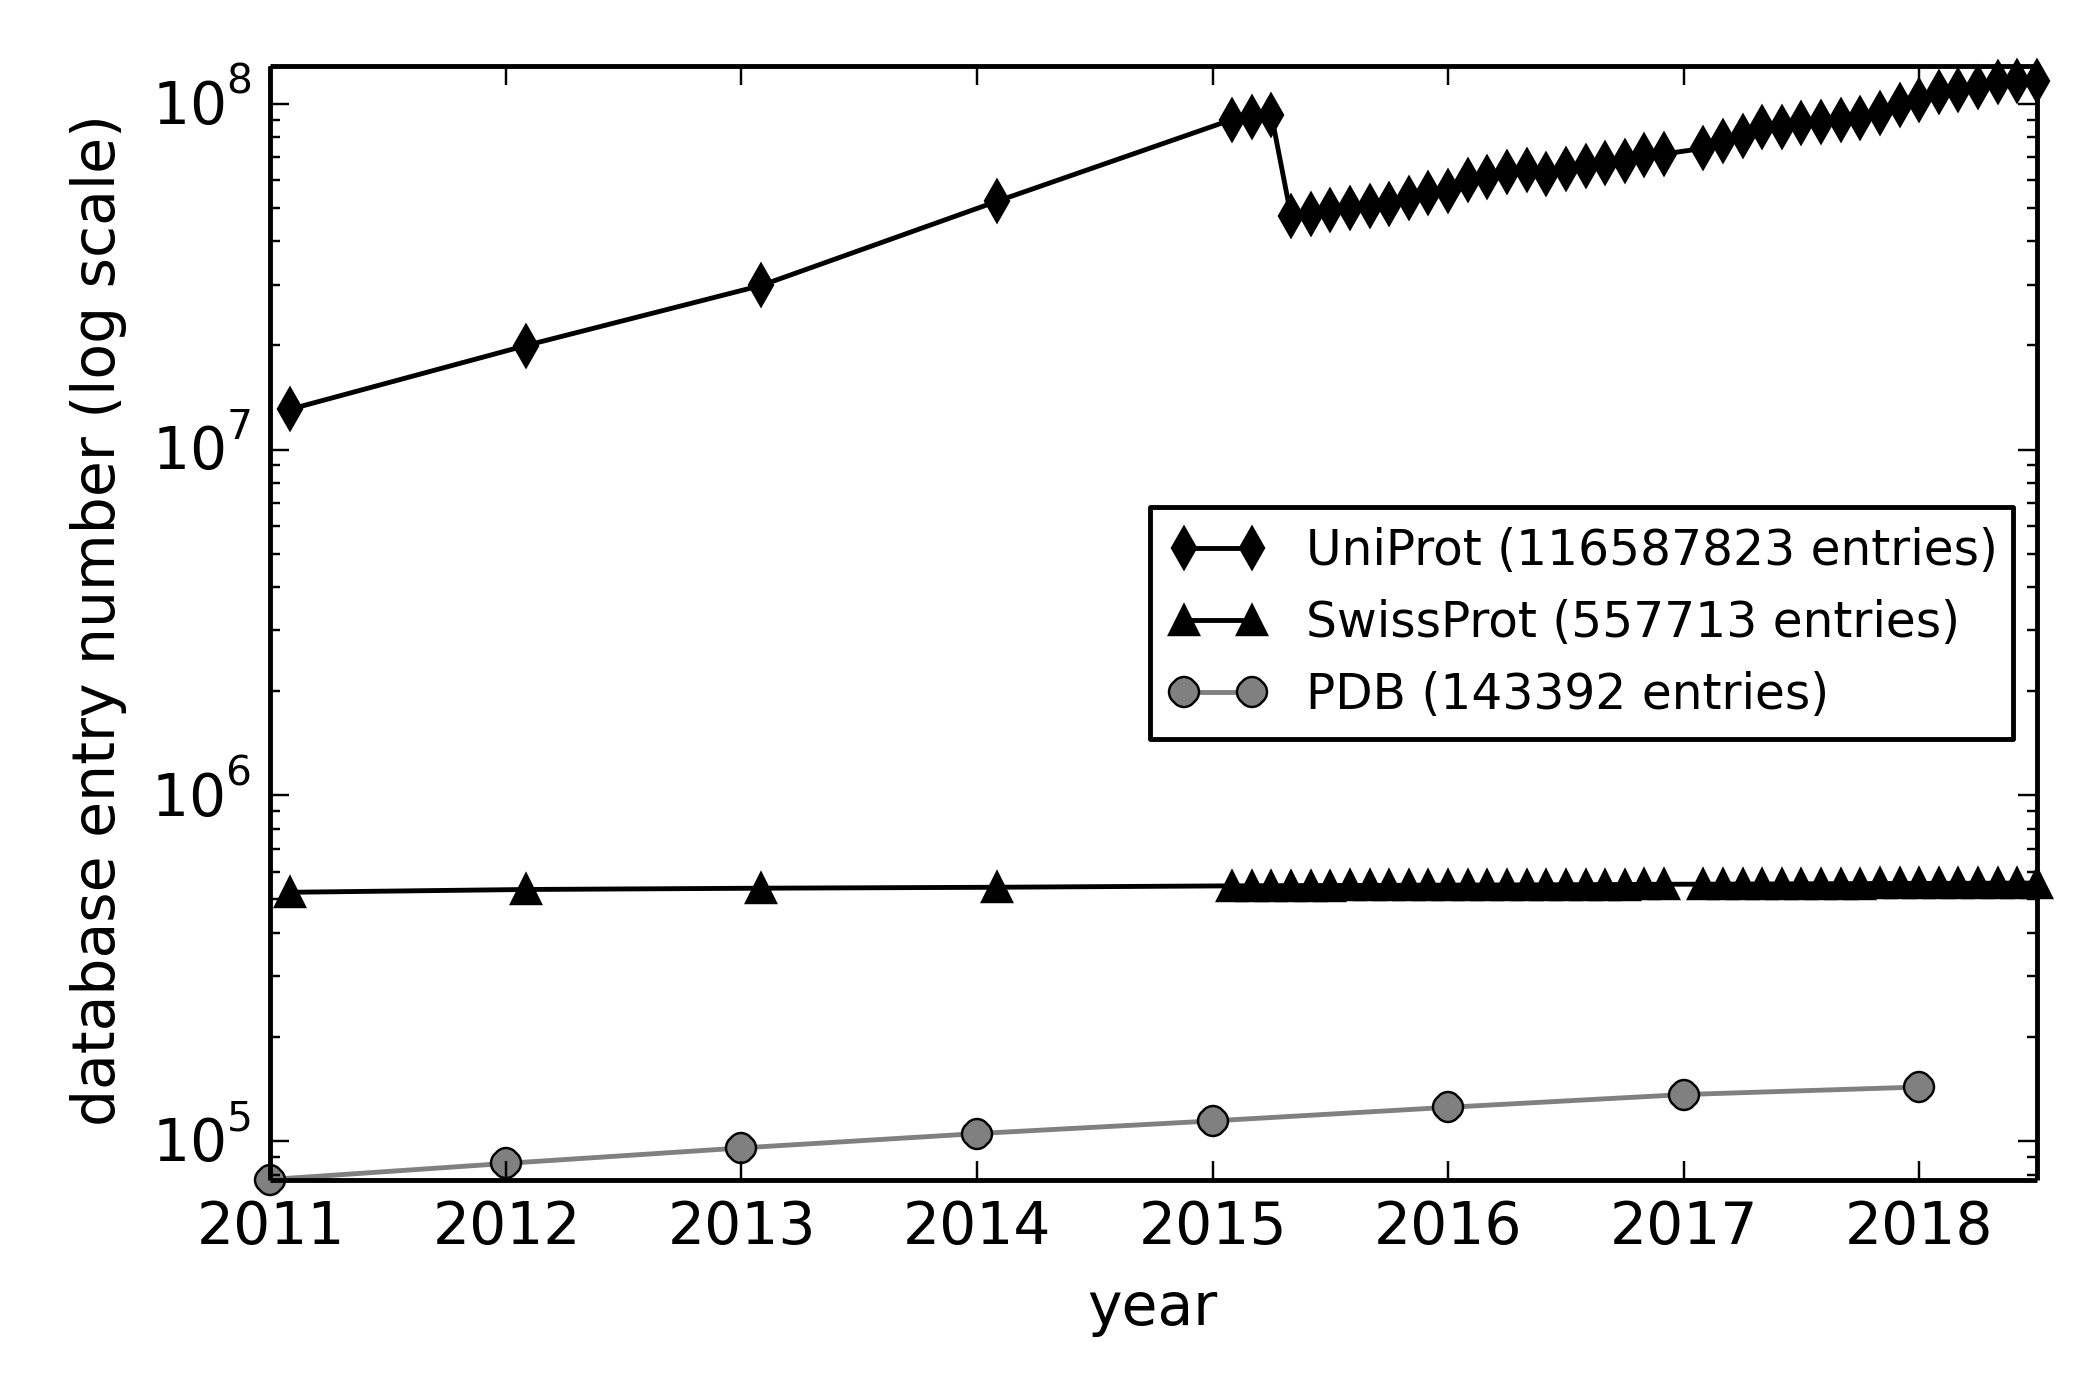
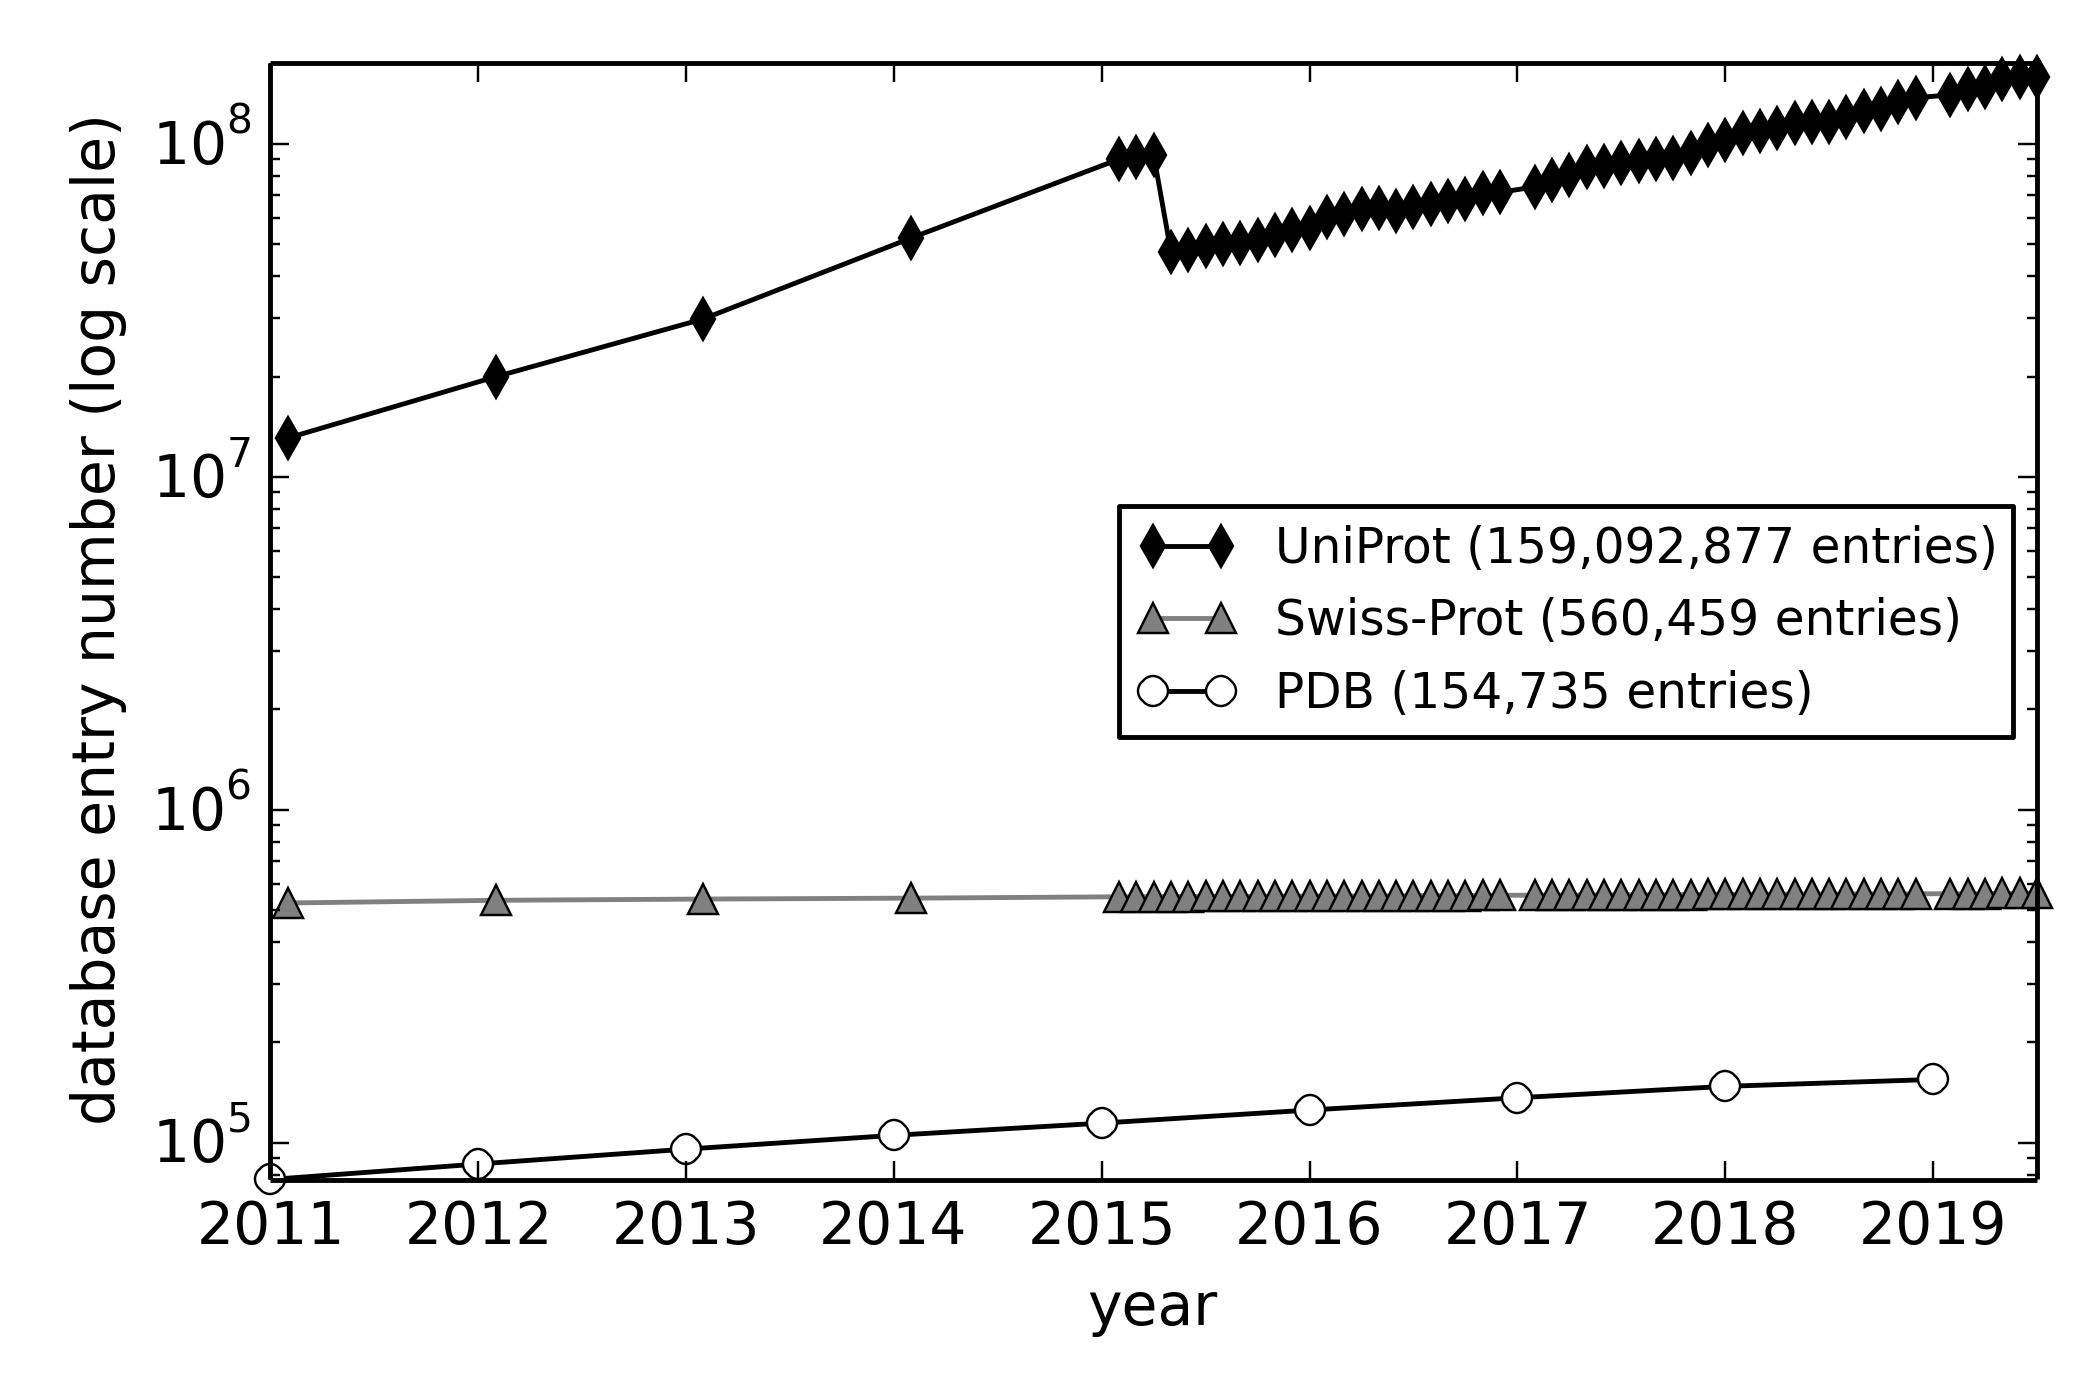
update stat to 2019_08

diff --git a/plot_all3_figure.py b/plot_all3_figure.py
@@ -1,6 +1,6 @@
 #!/usr/bin/env python
 docstring=''' plot uniprot vs pdb and trembl vs swissprot '''
-
+import textwrap
 import matplotlib
 matplotlib.use("agg")
 from matplotlib import pylab as plt
@@ -44,15 +44,29 @@ swissprot_list=[e for i,e in enumerate(swissprot_list) if uniprot_release[i]>=mi
 trembl_list=[e for i,e in enumerate(trembl_list) if uniprot_release[i]>=min_year]
 uniprot_release=[e for e in uniprot_release if e>=min_year]
 
+#### figure legend ####
+label_uniprot='%d'%uniprot_list[-1]
+label_uniprot=','.join(textwrap.wrap(label_uniprot[::-1],3))
+label_uniprot='UniProt (%s entries)'%(label_uniprot[::-1])
+
+label_swissprot='%d'%swissprot_list[-1]
+label_swissprot=','.join(textwrap.wrap(label_swissprot[::-1],3))
+label_swissprot='Swiss-Prot (%s entries)'%(label_swissprot[::-1])
+
+label_pdb='%d'%pdb_list[-1]
+label_pdb=','.join(textwrap.wrap(label_pdb[::-1],3))
+label_pdb='PDB (%s entries)'%(label_pdb[::-1])
 
 #### uniprot vs pdb ####
 plt.figure(1,figsize=(6,4))
 plt.semilogy(uniprot_release,uniprot_list,'d-',
-    clip_on=False,color='black',label='UniProt (%d entries)'%uniprot_list[-1])
+    clip_on=False,color='black',label=label_uniprot)
 plt.semilogy(uniprot_release,swissprot_list,'^-',
-    clip_on=False,color='black',label='SwissProt (%d entries)'%swissprot_list[-1])
+    clip_on=False,color='grey',
+    label=label_swissprot)
 plt.semilogy(pdb_release,pdb_list,'o-',
-    clip_on=False,color='grey',label='PDB (%d entries)'%pdb_list[-1])
+    clip_on=False,color="black",markerfacecolor='white',
+    label=label_pdb)
 plt.axis([min_year,max([max(pdb_release),max(uniprot_release)]),
     min(pdb_list),max(uniprot_list)*1.1])
 plt.xlabel("year")

diff --git a/plot_uniprot_figure.py b/plot_uniprot_figure.py
@@ -1,6 +1,6 @@
 #!/usr/bin/env python
 docstring=''' plot uniprot vs pdb and trembl vs swissprot '''
-
+import textwrap
 import matplotlib
 matplotlib.use("agg")
 from matplotlib import pylab as plt
@@ -30,13 +30,21 @@ swissprot_list=[e for i,e in enumerate(swissprot_list) if uniprot_release[i]>=mi
 trembl_list=[e for i,e in enumerate(trembl_list) if uniprot_release[i]>=min_year]
 uniprot_release=[e for e in uniprot_release if e>=min_year]
 
+#### figure legend ####
+label_uniprot='%d'%uniprot_list[-1]
+label_uniprot=','.join(textwrap.wrap(label_uniprot[::-1],3))
+label_uniprot='UniProt (%s entries)'%(label_uniprot[::-1])
+
+label_swissprot='%d'%swissprot_list[-1]
+label_swissprot=','.join(textwrap.wrap(label_swissprot[::-1],3))
+label_swissprot='Swiss-Prot (%s entries)'%(label_swissprot[::-1])
 
 #### uniprot vs pdb ####
 plt.figure(1,figsize=(6,4))
 plt.semilogy(uniprot_release,uniprot_list,'d-',clip_on=False,color='black',
-    label='UniProt (%d entries)'%uniprot_list[-1])
-plt.semilogy(uniprot_release,swissprot_list,'^-',clip_on=False,color='black',
-    label='SwissProt (%d entries)'%swissprot_list[-1])
+    label=label_uniprot)
+plt.semilogy(uniprot_release,swissprot_list,'^-',clip_on=False,color='grey',
+    label=label_swissprot)
 plt.axis([min_year,max(uniprot_release),
     min(swissprot_list)*0.9,max(uniprot_list)*1.1])
 plt.xlabel("Year")

diff --git a/plot_pdb_figure.py b/plot_pdb_figure.py
@@ -59,7 +59,7 @@ plt.figure(1,figsize=(6,4))
 plt.semilogy(uniprot_release,uniprot_list,'d-',
     clip_on=False,color='black',label=label_uniprot)
 plt.semilogy(pdb_release,pdb_list,'o-',
-    clip_on=False,color='grey',label=label_pdb)
+    clip_on=False,color='black',markerfacecolor="white",label=label_pdb)
 plt.axis([min_year,max([max(pdb_release),max(uniprot_release)]),
     min(pdb_list),max(uniprot_list)*1.1])
 plt.xlabel("Year")
